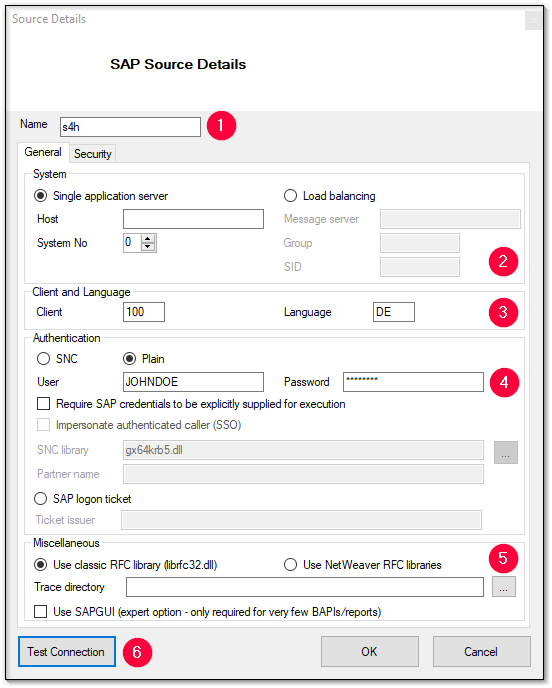
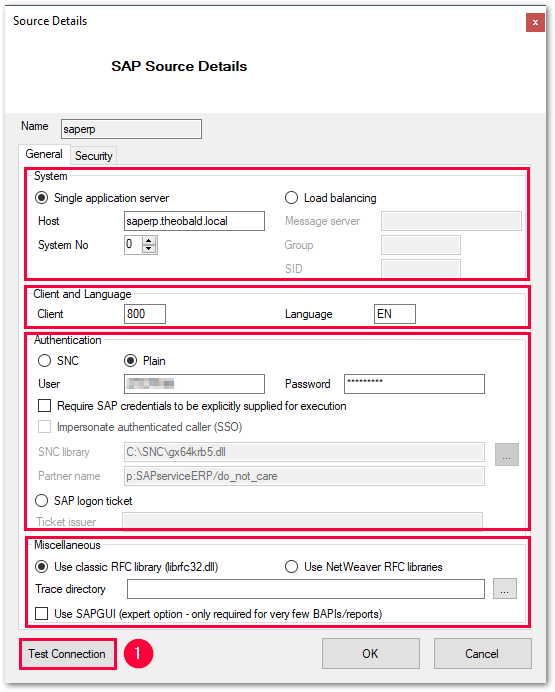
sap_connection_EN

Changed region(s): [[0.0, 0.0, 1.0, 1.0], [0.1848, 0.061, 0.462, 0.1221]]

diff --git a/_includes/_content/en/xu-specific/advanced-techniques/sap-connection.md b/_includes/_content/en/xu-specific/advanced-techniques/sap-connection.md
@@ -1,42 +1,34 @@
 
 ### Connection Details
 
+The tab *General* contains the connection details and is divided into four subsections:
+- [System](#system)
+- [Client and Language](#client-and-language)
+- [Authentication](#authentication)
+- [Miscellaneous](#miscellaneous)
 ![XU-Create-Connection-3-A](/img/content/xu/sap_source-details.png){:class="img-responsive"}<br>
+
+Fill out the connection details to establish the SAP connection.
 
 {: .box-tip }
 **Tip:** If you don't know the parameters, look in your SAP GUI or ask your SAP Basis.
 
-1. Enter a freely selectable connection name in the **Name** (1) field. 
-2. In the tab *General* in subsection **System** Enter the SAP source details (2). See [SAP Source System (server types)](#sap-source-system) for more details.
-
-3. Set the following parameters in the subsection **Client and Language** (3):
-- Client - a three-digit number of the SAP client between 000 and 999, e.g., 800.
-- Language - the logon language for the SAP system, e.g., EN for English or DE for German.
-4. Choose an authentication method in the subsection **Authentication** (4). The following authentication modes are supported:
-    -  SAP username and password (system or dialogue user)
-    - [SNC (Secure Network Communication)](../advanced-techniques/sap-single-sign-on/sso-with-kerberos-snc) with username and password
-    - [SNC with SSO](../advanced-techniques/sap-single-sign-on) (Single Sign On)
-    - [Log On Ticket](../advanced-techniques/sap-single-sign-on/sso-with-sap-logon-ticket) (available only for some connectors, e.g., ERPConnect, ERPConnect Services and Xtract Universal)
-
-5. In the subsection **Miscellaneous** (5) select an [RFC library](#rfc-libraries) and optionally, define the [trace directory](#trace-directory).
-
-6. Click **[Test Connection]** (6) to test the successful connection. <br>
+Click **[Test Connection]** (1) to test the successful connection. 
 The confirmation window opens. <br>
 The SAP connection is set up successfully.<br>
 ![XU-Create-Connection-3](/img/content/xu_test_connection.png){:class="img-responsive"} <br>
 
 
-### SAP source system
+### System
 There are two possibilities to connect to an SAP source system:
+- Using a Single Application Server
+	- **Application server**:  host name or IP address of the application server (Property Host) 
+	- **Instance number**: a two-digit number between 00 und 99 (Property SystemNumber)
 
-1. Using a Single Application Server
-- **Application server**:  host name or IP address of the application server (Property Host) 
-- **Instance number**: a two-digit number between 00 und 99 (Property SystemNumber)
-
-2. Using a Load Balancing Server (message server)
-- **System ID**: three-digit System ID (Property SID e.g.,  MSS) 
-- **Message Server**: name or IP address of the message server (Property MessageServer) 
-- **Logon group**: property LogonGroup, usually *PUBLIC*
+- Using a Load Balancing Server (message server)
+	- **System ID**: three-digit System ID (Property SID e.g.,  MSS) 
+	- **Message Server**: name or IP address of the message server (Property MessageServer) 
+	- **Logon group**: property LogonGroup, usually *PUBLIC*
 See also SAP online help: [Load Balancing](https://help.sap.com/saphelp_nwpi711/helpdata/en/c4/3a644c505211d189550000e829fbbd/content.htm?no_cache=true).
 
 #### Accessing via SAP router
@@ -51,7 +43,24 @@ See also SAP online help: [SAP-Router](https://help.sap.com/saphelp_snc700_ehp01
 **Tip:** Values to fill out the forms can be found in the SAP logon pad in the *Properties* or acquired from SAP Basis team.
 
 
-### RFC libraries
+### Client and Language
+- Client - a three-digit number of the SAP client between 000 and 999, e.g., 800.
+- Language - the logon language for the SAP system, e.g., EN for English or DE for German.
+
+### Authentication
+The following authentication modes are supported:
+-  Plain - SAP username and password (system or dialogue user)
+- [SNC (Secure Network Communication)](../advanced-techniques/sap-single-sign-on/sso-with-kerberos-snc) with username and password
+- [SNC with SSO](../advanced-techniques/sap-single-sign-on) (Single Sign On)
+	
+![XU-Authentication](/img/content/xu/sap-details-authentication.png){:class="img-responsive"}<br> 
+You can additionally use [SAP Log On Ticket](../advanced-techniques/sap-single-sign-on/sso-with-sap-logon-ticket) for authentication (available only for some connectors, e.g., ERPConnect, ERPConnect Services and Xtract Universal).
+
+
+### Miscellaneous
+Select a library and optionally define a trace directory.
+
+#### RFC libraries
 The RFC API (Remote Function Call) allows to establish an RFC connection to an SAP system from an external system that communicates as Client or Server with the SAP system.  
 There are two options for using RFC libraries in Xtract IS:
 - Use classic RFC library (librfc32.dll)
@@ -67,7 +76,7 @@ SAP has stopped [supporting librfc32.dll](https://blogs.sap.com/2012/08/15/suppo
 {: .box-note }
 **Note:** When using the NetWeaver RFC library with DeltaQ or OHS extractions, the RFC destination in SM59 must be set to Unicode. 
 
-### Trace Directory
+#### Trace Directory
 
 You can log debug information and save it locally. Fill the **Trace directory** field with a local path to a folder, where you want to save the debug information.
 See further details in the knowledge base article [*Trace Directory*](https://kb.theobald-software.com/general/how-to-activate-tracing-for-xtract-products?fromSearch=true).
@@ -77,7 +86,8 @@ See further details in the knowledge base article [*Trace Directory*](https://kb
 A big amount of information is collected when debug logging is activated. This can decrease the capacity of your hard drives dramatically.
 Activate the debug logging only when necessary e.g., upon request of the support team.
 
-#### To check the created SAP connection
+ 
+### To check the New SAP Connection
 1. In the main window of the Xtract Universal Designer. Navigate to the menu bar and select the menu item **Server > Manage Sources**.<br>
 The window "Manage Sources" opens. <br>
 2. Check if created SAP connection is listed.<br>

diff --git a/content/_en/board-connector/advanced-techniques/sap-connection.md b/content/_en/board-connector/advanced-techniques/sap-connection.md
@@ -18,5 +18,6 @@ The window "Manage Sources" opens. <br>
 ![BC-Create-Connection-2](/img/content/bc_manage_sources.png){:class="img-responsive"}
 
 2. Click **[Add]**. The window "SAP Source Details" opens. <br>
+3. Enter a name of your added connection.
 
 {% include _content/en/xu-specific/advanced-techniques/sap-connection.md %}

diff --git a/content/_en/xtract-universal/introduction/sap-connection.md b/content/_en/xtract-universal/introduction/sap-connection.md
@@ -18,5 +18,6 @@ The window "Manage Sources" opens. <br>
 ![XU-Create-Connection-2](/img/content/xu_manage_source.png){:class="img-responsive"}
 
 2. Click **[Add]**. The window "SAP Source Details" opens. <br>
+3. Enter a name of your added connection.
 
 {% include _content/en/xu-specific/advanced-techniques/sap-connection.md %}
